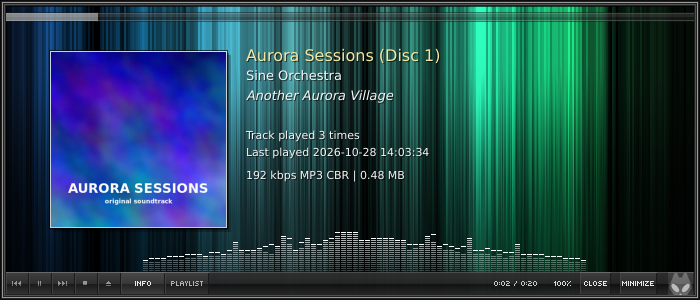
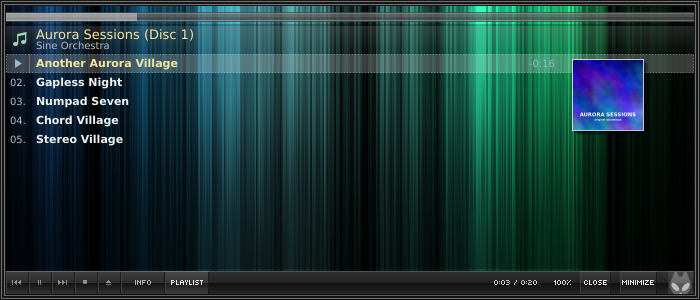
Skin: frame, button row and seek bar measured against the reference
- Frame rebuilt pixel by pixel: 6px from the outside dark 22, grey 114,
  dark 23, dark 23, grey 114, dark 22 (bottom: 12, 114, 20, 21, 94, 15),
  instead of a bright line and a dim one at the wrong offsets
- The button row is 23px high like in the reference (edge, 11 upper and
  11 lower rows); grey levels of tiles and row matched within +-2, the
  row behind the buttons is opaque
- Seek bar: opacity and grey levels solved from the reference over two
  different backgrounds (strip 77 %, played part 90 %); the played part
  leaves exactly one row free at the top and the bottom

Claude-Session: https://claude.ai/code/session_015BRbPGubUmtxsC6CGuuWu9

diff --git a/src/skin/SkinView.cpp b/src/skin/SkinView.cpp
@@ -23,7 +23,7 @@ constexpr int kFrame = 6;       // frame around the picture
 constexpr int kSeekY = 12;      // seek bar: y and height
 constexpr int kSeekH = 10;
 constexpr int kPanelY = 22;     // info/playlist panel
-constexpr int kBarH = 22;       // button row
+constexpr int kBarH = 23;       // button row (measured in the reference)
 constexpr int kBarStep = 6;     // spectrum: bar width (5) + gap (1)
 constexpr int kSegment = 2;     // spectrum: segment line (1) + gap (1)
 constexpr int kSpectrumH = 42;
@@ -83,9 +83,11 @@ const QStringList &glyphRows(int id)
 struct Glass
 {
     int top, upperFrom, upperTo, lowerFrom, lowerTo;
+    int lastUpper; // the row just above the step (tiles get a little brighter there)
 };
-constexpr Glass kTileGlass{104, 61, 46, 27, 49};  // opaque button tiles
-constexpr Glass kBarGlass{81, 48, 37, 18, 39};    // the row behind the buttons
+// Measured in the reference screenshot (23 rows: edge, 11 upper, 11 lower).
+constexpr Glass kTileGlass{103, 60, 46, 21, 49, 49}; // opaque button tiles
+constexpr Glass kBarGlass{80, 47, 36, 17, 38, 35};   // the row behind the buttons
 
 QColor grey(int v, int alpha = 255)
 {
@@ -96,13 +98,15 @@ QColor grey(int v, int alpha = 255)
 void paintGlass(QPainter &p, const QRect &r, const Glass &g, int shift = 0, int alpha = 255)
 {
     const int h = r.height();
-    const int mid = std::max(2, int(std::lround(h * 0.545))); // row 12 of 22
+    const int mid = std::max(3, h / 2 + 1); // row 12 of 23
     for (int y = 0; y < h; ++y) {
         int v;
         if (y == 0) {
             v = g.top;
+        } else if (y == mid - 1) {
+            v = g.lastUpper;
         } else if (y < mid) {
-            v = g.upperFrom + (g.upperTo - g.upperFrom) * (y - 1) / std::max(1, mid - 2);
+            v = g.upperFrom + (g.upperTo - g.upperFrom) * (y - 1) / std::max(1, mid - 3);
         } else {
             v = g.lowerFrom + (g.lowerTo - g.lowerFrom) * (y - mid) / std::max(1, h - mid - 1);
         }
@@ -366,18 +370,28 @@ void SkinView::paintEvent(QPaintEvent *)
 
 void SkinView::paintFrame(QPainter &p)
 {
-    // Like the skin: a dark outer line, a light inner one, the picture inside.
+    // The frame of the original, measured pixel by pixel, 6px from the outside:
+    // left, top and right: dark 22, grey 114, dark 23, dark 23, grey 114, dark 22;
+    // bottom:              dark 12, grey 114, dark 20, dark 21, grey 94,  dark 15.
     p.setRenderHint(QPainter::Antialiasing, false);
-    p.fillRect(rect(), QColor(0x22, 0x22, 0x22));
-    p.setPen(QColor(0x0c, 0x0c, 0x0c));
-    p.drawRect(rect().adjusted(0, 0, -1, -1));
-    p.setPen(QColor(0x9a, 0x9a, 0x9a));
-    p.drawRect(rect().adjusted(2, 2, -3, -3));
-    p.setPen(QColor(0x50, 0x50, 0x50));
-    p.drawRect(rect().adjusted(4, 4, -5, -5));
+    const int w = width(), h = height();
+    p.fillRect(rect(), grey(22));
+    p.fillRect(rect().adjusted(2, 2, -2, -2), grey(23));
+    p.fillRect(QRect(2, h - 4, w - 4, 1), grey(21));
+    p.fillRect(QRect(2, h - 3, w - 4, 1), grey(20));
+    p.fillRect(QRect(5, h - 6, w - 10, 1), grey(15));
+    p.fillRect(QRect(0, h - 1, w, 1), grey(12));
+    // Outer grey line
+    p.fillRect(QRect(1, 1, w - 2, 1), grey(114));
+    p.fillRect(QRect(1, 1, 1, h - 2), grey(114));
+    p.fillRect(QRect(w - 2, 1, 1, h - 2), grey(114));
+    p.fillRect(QRect(1, h - 2, w - 2, 1), grey(114));
+    // Inner grey line, darker at the bottom
+    p.fillRect(QRect(4, 4, w - 8, 1), grey(114));
+    p.fillRect(QRect(4, 4, 1, h - 8), grey(114));
+    p.fillRect(QRect(w - 5, 4, 1, h - 8), grey(114));
+    p.fillRect(QRect(5, h - 5, w - 10, 1), grey(94));
     p.drawImage(m_content.topLeft(), m_background);
-    p.setPen(QColor(0, 0, 0, 170));
-    p.drawRect(m_content.adjusted(0, 0, -1, -1));
 }
 
 void SkinView::paintProgress(QPainter &p)
@@ -385,17 +399,19 @@ void SkinView::paintProgress(QPainter &p)
     // A glass strip: dark edges, light lines, glossy upper and darker lower half.
     // The played part is the same glass in light grey and less transparent.
     const QRect r = m_progressRect;
-    // The played part leaves the outer row free at the top and the bottom.
-    static const int track[10] = {24, 120, 68, 68, 68, 36, 36, 36, 120, 24};
-    static const int played[10] = {0, 190, 172, 172, 172, 160, 160, 160, 190, 0};
+    // Values solved from the reference over two different backgrounds:
+    // the strip is grey at 77 % opacity, the played part grey at 90 %. The
+    // played part leaves the outer row free at the top and the bottom.
+    static const int track[10] = {70, 140, 103, 103, 103, 80, 80, 80, 140, 70};
+    static const int played[10] = {0, 185, 171, 171, 171, 159, 159, 159, 185, 0};
     const int fillW = m_progress >= 0 ? int(r.width() * std::clamp(m_progress, 0.0, 1.0)) : 0;
     for (int y = 0; y < r.height(); ++y) {
         const int row = std::min(9, y * 10 / r.height());
         const bool edge = y == 0 || y == r.height() - 1;
         const int split = edge ? 0 : fillW;
         if (split > 0)
-            p.fillRect(QRect(r.left(), r.top() + y, split, 1), grey(played[row], 195));
-        p.fillRect(QRect(r.left() + split, r.top() + y, r.width() - split, 1), grey(track[row], 128));
+            p.fillRect(QRect(r.left(), r.top() + y, split, 1), grey(played[row], 230));
+        p.fillRect(QRect(r.left() + split, r.top() + y, r.width() - split, 1), grey(track[row], 196));
     }
 
     if (!m_message.isEmpty()) {
@@ -526,8 +542,8 @@ void SkinView::paintAlien(QPainter &p, const QRect &r, bool hover)
 void SkinView::paintBar(QPainter &p)
 {
     p.setRenderHint(QPainter::Antialiasing, false);
-    // The row itself is glass too, slightly see-through.
-    paintGlass(p, m_barRect, kBarGlass, 0, 235);
+    // The row itself is glass too (opaque, like in the reference).
+    paintGlass(p, m_barRect, kBarGlass);
 
     for (const ButtonRect &b : m_buttons) {
         const bool hover = b.id == m_hover;
